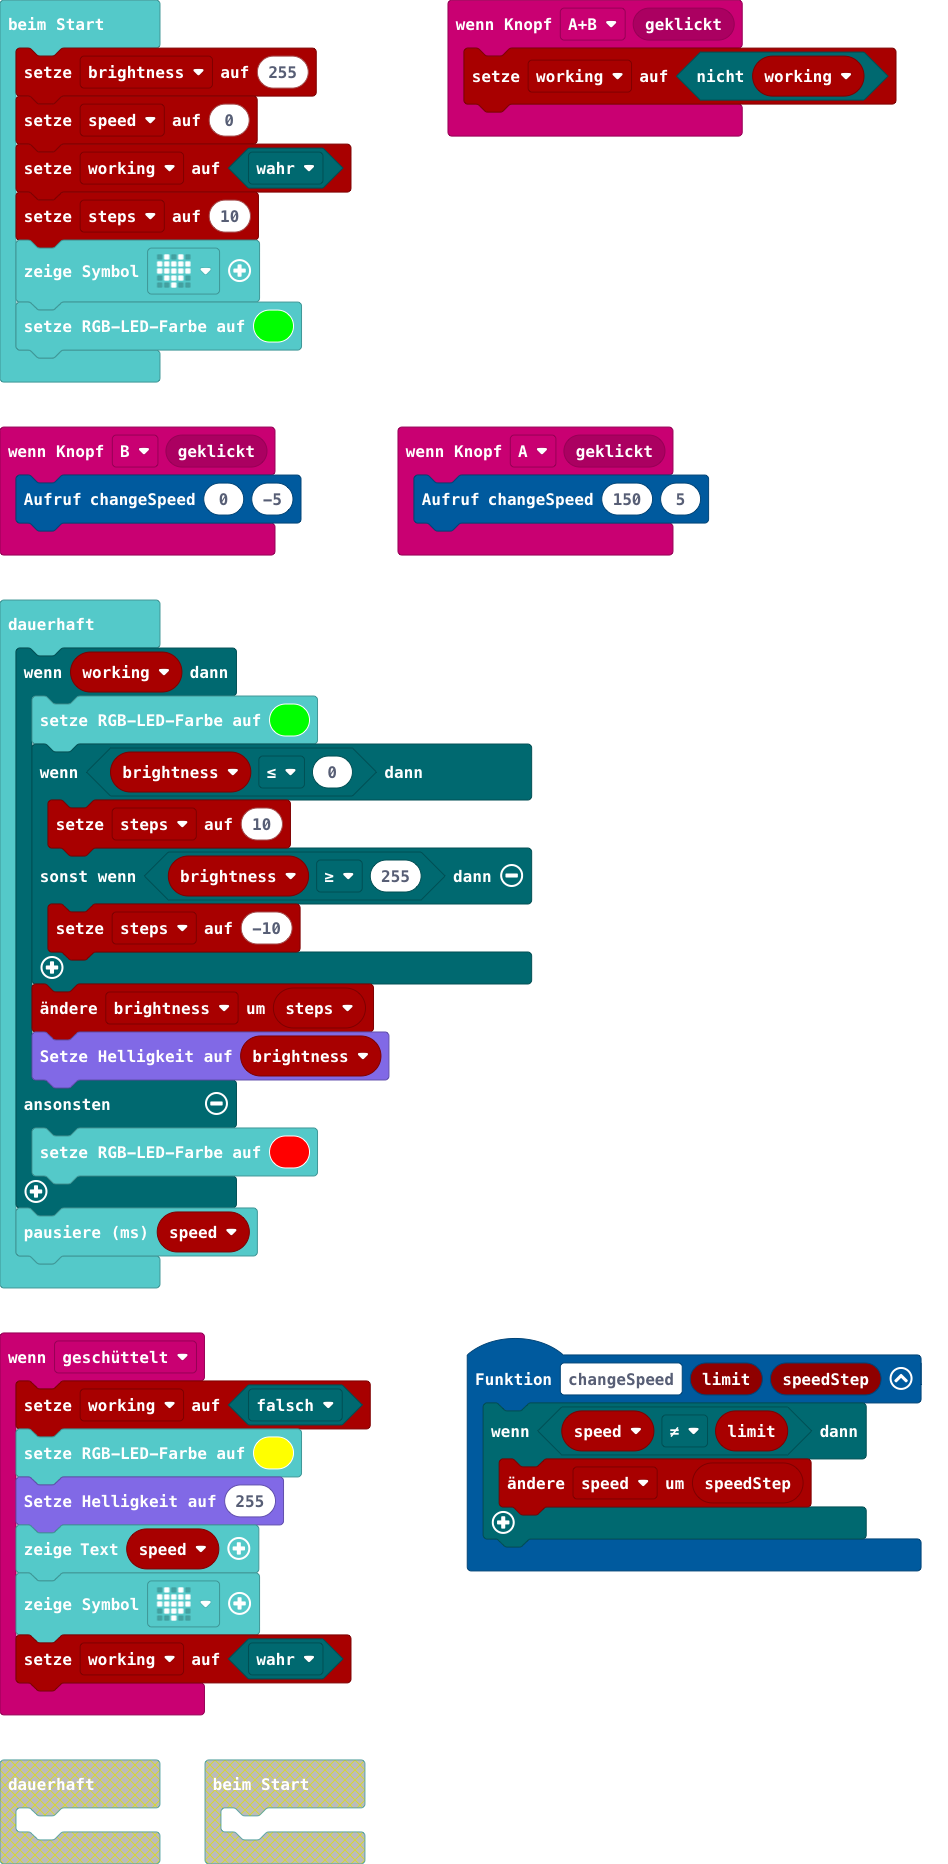
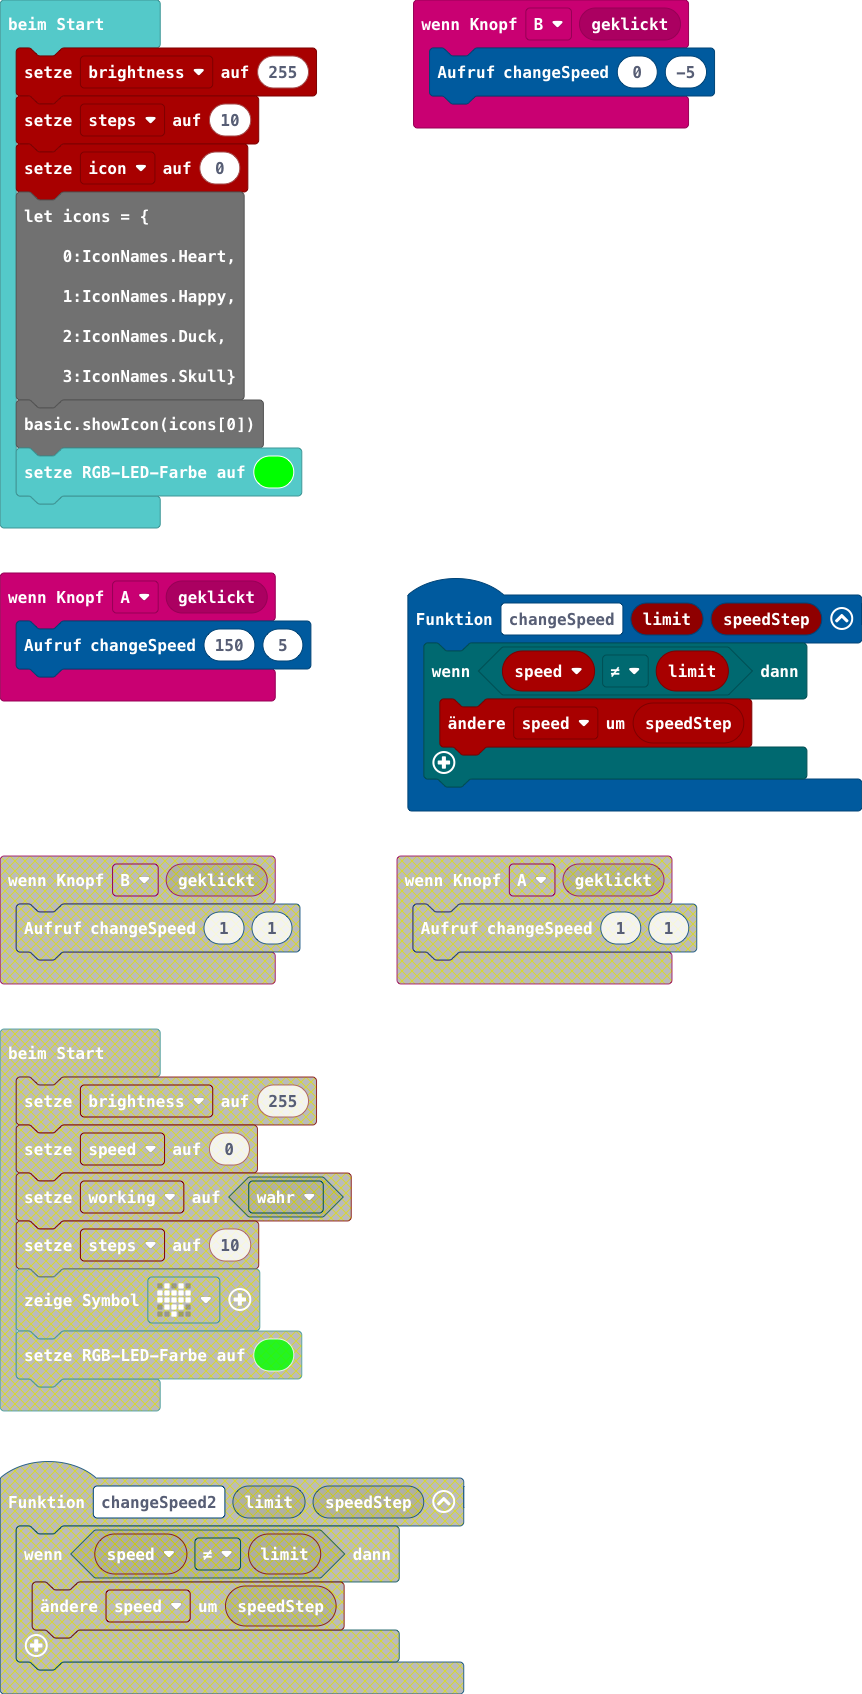
Aktualisiere pxt.json, main.blocks, main.ts

diff --git a/main.ts b/main.ts
@@ -20,13 +20,17 @@ input.onGesture(Gesture.Shake, function () {
     basic.showIcon(IconNames.Heart)
     working = true
 })
-let working = false
 let speed = 0
+let working = false
 let brightness = 255
-speed = 0
-working = true
 let steps = 10
-basic.showIcon(IconNames.Heart)
+let icon:number = 0
+let icons = {
+    0:IconNames.Heart,
+    1:IconNames.Happy,
+    2:IconNames.Duck,
+    3:IconNames.Skull}
+basic.showIcon(icons[icon])
 basic.setLedColor(0x00ff00)
 basic.forever(function () {
     if (working) {
